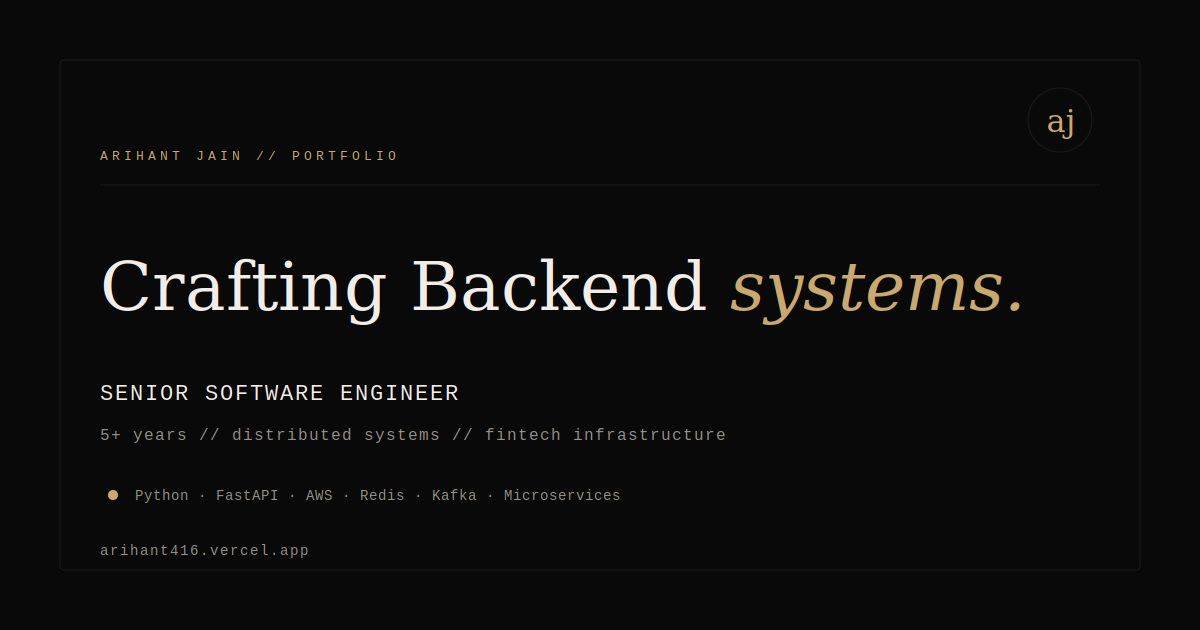
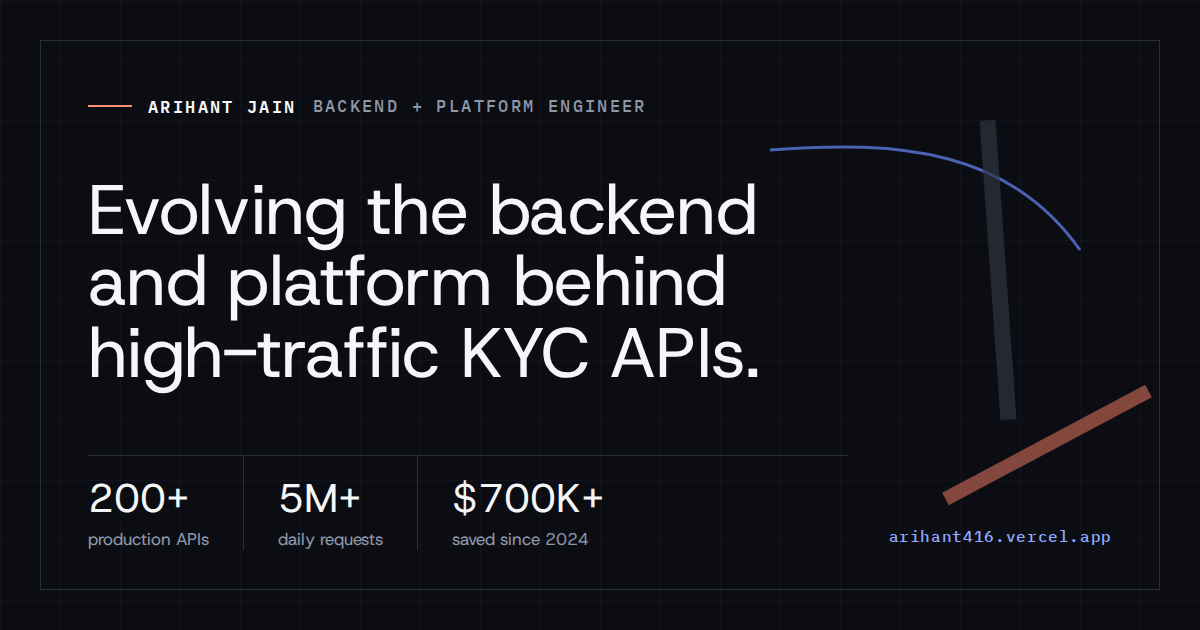
Phase 2: performance, accessibility, and link previews
- SpatialScene: build the WebGL scene once and recolour it in place on
  theme toggle (no new context per toggle); pause the render loop when
  the hero is off-screen or the tab is hidden
- Apply the saved/system theme before first paint (no dark flash for
  light-mode visitors); theme-color and color-scheme meta per scheme;
  localStorage access guarded
- Light-theme primary button: white text on cobalt (was 3.05:1), and
  readable hover state in light mode
- /beyond-work gets its own static index.html at build time with page
  title, description, canonical and OG image, so link unfurls and
  crawlers see the right page; Vercel rewrite points at it
- New OG / Twitter cards in the current visual identity (home and
  Beyond Work)
- Footer: social row no longer wraps between 1024 and 1280px
- Remove dead src/theme.js

Claude-Session: https://claude.ai/code/session_01WbQ3GogkfSynszMxnCNcDv

diff --git a/src/components/SpatialScene.jsx b/src/components/SpatialScene.jsx
@@ -2,13 +2,41 @@ import { useEffect, useRef, useState } from 'react';
 import * as THREE from 'three';
 import { useTheme } from '../context/ThemeContext';
 
+const PALETTE = {
+  dark: {
+    background: 0x0b0d12,
+    graphite: 0x2d3442,
+    cobalt: 0x607fe8,
+    coral: 0xe97862,
+    lineOpacity: 0.34,
+    blueOpacity: 0.7,
+    coralOpacity: 0.64,
+    gridOpacity: 0.08,
+  },
+  light: {
+    background: 0xf2f4f7,
+    graphite: 0xaeb8c8,
+    cobalt: 0x3156c8,
+    coral: 0xc6533d,
+    lineOpacity: 0.42,
+    blueOpacity: 0.5,
+    coralOpacity: 0.45,
+    gridOpacity: 0.1,
+  },
+};
+
 export default function SpatialScene({ reduceMotion = false }) {
   const containerRef = useRef(null);
   const canvasRef = useRef(null);
+  const sceneRef = useRef(null);
   const [ready, setReady] = useState(false);
   const [failed, setFailed] = useState(false);
   const { isDark } = useTheme();
+  const isDarkRef = useRef(isDark);
+  isDarkRef.current = isDark;
 
+  // Build the scene once per mount (and when motion preference changes).
+  // Theme changes are applied in place by the effect below, without a new WebGL context.
   useEffect(() => {
     const container = containerRef.current;
     const canvas = canvasRef.current;
@@ -33,42 +61,20 @@ export default function SpatialScene({ reduceMotion = false }) {
     const scene = new THREE.Scene();
     const camera = new THREE.PerspectiveCamera(32, 1, 0.1, 40);
     camera.position.set(0, 0, 10);
+    scene.fog = new THREE.Fog(0x000000, 10, 19);
 
     const stage = new THREE.Group();
     scene.add(stage);
 
-    const background = isDark ? 0x0b0d12 : 0xf2f4f7;
-    const graphite = isDark ? 0x2d3442 : 0xaeb8c8;
-    const cobalt = isDark ? 0x607fe8 : 0x3156c8;
-    const coral = isDark ? 0xe97862 : 0xc6533d;
-    scene.fog = new THREE.Fog(background, 10, 19);
-
     const geometries = [];
-    const materials = [];
     const rememberGeometry = (geometry) => {
       geometries.push(geometry);
       return geometry;
     };
-    const rememberMaterial = (material) => {
-      materials.push(material);
-      return material;
-    };
 
-    const lineMaterial = rememberMaterial(new THREE.LineBasicMaterial({
-      color: graphite,
-      transparent: true,
-      opacity: isDark ? 0.34 : 0.42,
-    }));
-    const blueMaterial = rememberMaterial(new THREE.MeshBasicMaterial({
-      color: cobalt,
-      transparent: true,
-      opacity: isDark ? 0.7 : 0.5,
-    }));
-    const coralMaterial = rememberMaterial(new THREE.MeshBasicMaterial({
-      color: coral,
-      transparent: true,
-      opacity: isDark ? 0.64 : 0.45,
-    }));
+    const lineMaterial = new THREE.LineBasicMaterial({ transparent: true });
+    const blueMaterial = new THREE.MeshBasicMaterial({ transparent: true });
+    const coralMaterial = new THREE.MeshBasicMaterial({ transparent: true });
 
     const frameGeometry = rememberGeometry(new THREE.EdgesGeometry(new THREE.BoxGeometry(6.8, 4.8, 1.8)));
     const frame = new THREE.LineSegments(frameGeometry, lineMaterial);
@@ -104,12 +110,27 @@ export default function SpatialScene({ reduceMotion = false }) {
       return fin;
     });
 
-    const grid = new THREE.GridHelper(18, 18, graphite, graphite);
+    const grid = new THREE.GridHelper(18, 18);
     grid.rotation.x = Math.PI / 2;
     grid.position.z = -2.8;
     grid.material.transparent = true;
-    grid.material.opacity = isDark ? 0.08 : 0.1;
     stage.add(grid);
+
+    const render = () => renderer.render(scene, camera);
+
+    const applyTheme = (mode) => {
+      const colors = PALETTE[mode];
+      scene.fog.color.setHex(colors.background);
+      lineMaterial.color.setHex(colors.graphite);
+      lineMaterial.opacity = colors.lineOpacity;
+      blueMaterial.color.setHex(colors.cobalt);
+      blueMaterial.opacity = colors.blueOpacity;
+      coralMaterial.color.setHex(colors.coral);
+      coralMaterial.opacity = colors.coralOpacity;
+      grid.material.color.setHex(colors.graphite);
+      grid.material.opacity = colors.gridOpacity;
+      render();
+    };
 
     let pointerX = 0;
     let pointerY = 0;
@@ -121,6 +142,7 @@ export default function SpatialScene({ reduceMotion = false }) {
 
     const resize = () => {
       const { width, height } = container.getBoundingClientRect();
+      if (!width || !height) return;
       const mobile = width < 720;
       const tablet = width >= 720 && width < 1040;
 
@@ -139,45 +161,71 @@ export default function SpatialScene({ reduceMotion = false }) {
         stage.scale.setScalar(1);
         stage.position.set(1.65, -0.05, 0);
       }
-      renderer.render(scene, camera);
+      render();
     };
+
+    // Animation loop only runs while the hero is on screen and the tab is visible.
+    let animationFrame = null;
+    let onScreen = true;
+    const tick = (time) => {
+      const seconds = time * 0.001;
+      stage.rotation.y += ((pointerX * 0.025) - stage.rotation.y) * 0.035;
+      stage.rotation.x += ((pointerY * -0.012) - stage.rotation.x) * 0.035;
+      fins.forEach((fin, index) => {
+        fin.position.z = fin.userData.baseZ + Math.sin(seconds * 0.28 + index) * 0.035;
+      });
+      routes.forEach((route, index) => {
+        route.position.y = Math.sin(seconds * 0.38 + index) * 0.014;
+      });
+      render();
+      animationFrame = window.requestAnimationFrame(tick);
+    };
+    const start = () => {
+      if (reduceMotion || animationFrame !== null || !onScreen || document.hidden) return;
+      animationFrame = window.requestAnimationFrame(tick);
+    };
+    const stop = () => {
+      if (animationFrame !== null) window.cancelAnimationFrame(animationFrame);
+      animationFrame = null;
+    };
+
+    const visibilityObserver = new IntersectionObserver(([entry]) => {
+      onScreen = entry.isIntersecting;
+      if (onScreen) start();
+      else stop();
+    });
+    visibilityObserver.observe(container);
+
+    const handleVisibility = () => (document.hidden ? stop() : start());
+    document.addEventListener('visibilitychange', handleVisibility);
 
     const resizeObserver = new ResizeObserver(resize);
     resizeObserver.observe(container);
+
+    sceneRef.current = { applyTheme };
+    applyTheme(isDarkRef.current ? 'dark' : 'light');
     resize();
     setReady(true);
-
-    let animationFrame;
-    const render = (time) => {
-      const seconds = time * 0.001;
-      if (!reduceMotion) {
-        stage.rotation.y += ((pointerX * 0.025) - stage.rotation.y) * 0.035;
-        stage.rotation.x += ((pointerY * -0.012) - stage.rotation.x) * 0.035;
-        fins.forEach((fin, index) => {
-          fin.position.z = fin.userData.baseZ + Math.sin(seconds * 0.28 + index) * 0.035;
-        });
-        routes.forEach((route, index) => {
-          route.position.y = Math.sin(seconds * 0.38 + index) * 0.014;
-        });
-      }
-      renderer.render(scene, camera);
-      if (!reduceMotion) animationFrame = window.requestAnimationFrame(render);
-    };
-
-    if (reduceMotion) renderer.render(scene, camera);
-    else animationFrame = window.requestAnimationFrame(render);
+    start();
 
     return () => {
-      window.removeEventListener('pointermove', handlePointer);
+      sceneRef.current = null;
+      stop();
+      visibilityObserver.disconnect();
       resizeObserver.disconnect();
-      if (animationFrame) window.cancelAnimationFrame(animationFrame);
+      document.removeEventListener('visibilitychange', handleVisibility);
+      window.removeEventListener('pointermove', handlePointer);
       geometries.forEach((geometry) => geometry.dispose());
-      materials.forEach((material) => material.dispose());
+      [lineMaterial, blueMaterial, coralMaterial].forEach((material) => material.dispose());
       grid.geometry.dispose();
       grid.material.dispose();
       renderer.dispose();
     };
-  }, [isDark, reduceMotion]);
+  }, [reduceMotion]);
+
+  useEffect(() => {
+    sceneRef.current?.applyTheme(isDark ? 'dark' : 'light');
+  }, [isDark]);
 
   return (
     <div ref={containerRef} className={`spatial-scene ${ready ? 'is-ready' : ''} ${failed ? 'has-failed' : ''}`}>

diff --git a/index.html b/index.html
@@ -4,44 +4,41 @@
 		<meta charset="utf-8" />
 		<link rel="icon" href="/favicon.ico" />
 		<meta name="viewport" content="width=device-width, initial-scale=1" />
-		<meta name="theme-color" content="#000000" />
-		<meta
-			name="description"
-			content="Senior Backend Engineer building the shared infrastructure behind 200+ production APIs: health-aware routing, distributed session coordination, and multi-region DR for 5M+ daily requests."
-		/>
+		<meta name="theme-color" content="#0b0d12" media="(prefers-color-scheme: dark)" />
+		<meta name="theme-color" content="#f2f4f7" media="(prefers-color-scheme: light)" />
+		<meta name="color-scheme" content="dark light" />
+		<!-- Apply the saved/system theme before first paint to avoid a flash -->
+		<script>
+			(function () {
+				var theme;
+				try { theme = localStorage.getItem('theme'); } catch (e) {}
+				if (theme !== 'dark' && theme !== 'light') {
+					theme = window.matchMedia('(prefers-color-scheme: dark)').matches ? 'dark' : 'light';
+				}
+				var root = document.documentElement;
+				root.setAttribute('data-theme', theme);
+				if (theme === 'dark') root.classList.add('dark');
+			})();
+		</script>
+		<meta name="description" content="Senior Backend Engineer building the shared infrastructure behind 200+ production APIs: health-aware routing, distributed session coordination, and multi-region DR for 5M+ daily requests." />
 		<!-- OpenGraph things -->
 		<meta property="og:title" content="Arihant Jain · Senior Backend Engineer" />
-		<meta
-			property="og:description"
-			content="Senior Backend Engineer building the shared infrastructure behind 200+ production APIs: health-aware routing, distributed session coordination, and multi-region DR for 5M+ daily requests."
-		/>
+		<meta property="og:description" content="Senior Backend Engineer building the shared infrastructure behind 200+ production APIs: health-aware routing, distributed session coordination, and multi-region DR for 5M+ daily requests." />
 		<meta property="og:url" content="https://arihant416.vercel.app/" />
 		<meta property="og:site_name" content="Arihant Jain Portfolio" />
 		<meta property="og:image" content="https://arihant416.vercel.app/og-image.png" />
 		<meta property="og:image:width" content="1200" />
 		<meta property="og:image:height" content="630" />
-		<meta
-			property="og:image:alt"
-			content="Arihant Jain portfolio preview for Senior Backend Engineer work"
-		/>
+		<meta property="og:image:alt" content="Arihant Jain, Backend + Platform Engineer: evolving the backend and platform behind high-traffic KYC APIs" />
 		<meta property="og:type" content="website" />
 		<meta property="og:locale" content="en_US" />
 
 		<!-- Twitter Cards -->
 		<meta name="twitter:card" content="summary_large_image" />
 		<meta name="twitter:title" content="Arihant Jain · Senior Backend Engineer" />
-		<meta
-			name="twitter:description"
-			content="Senior Backend Engineer building the shared infrastructure behind 200+ production APIs: health-aware routing, distributed session coordination, and multi-region DR for 5M+ daily requests."
-		/>
-		<meta
-			name="twitter:image"
-			content="https://arihant416.vercel.app/twitter-card.png"
-		/>
-		<meta
-			name="twitter:image:alt"
-			content="Arihant Jain portfolio preview for Senior Backend Engineer work"
-		/>
+		<meta name="twitter:description" content="Senior Backend Engineer building the shared infrastructure behind 200+ production APIs: health-aware routing, distributed session coordination, and multi-region DR for 5M+ daily requests." />
+		<meta name="twitter:image" content="https://arihant416.vercel.app/og-image.png" />
+		<meta name="twitter:image:alt" content="Arihant Jain, Backend + Platform Engineer: evolving the backend and platform behind high-traffic KYC APIs" />
 		<meta name="twitter:url" content="https://arihant416.vercel.app/" />
 		<meta name="twitter:site" content="@Arihant2302" />
 		<meta name="twitter:creator" content="@Arihant2302" />

diff --git a/src/index.css b/src/index.css
@@ -21,6 +21,7 @@
   --panel-shadow: 0 24px 80px rgba(0, 0, 0, 0.32);
   --nav-shadow: 0 16px 46px rgba(0, 0, 0, 0.20);
   --accent-glow: 0 0 42px rgba(145, 169, 255, 0.14);
+  --on-accent: #0b0d12;
   --tone-cobalt: #91a9ff;
   --tone-coral: #ff8e72;
   --tone-teal: #5fd0bd;
@@ -59,6 +60,7 @@
   --panel-shadow: 0 18px 48px rgba(35, 47, 73, 0.10);
   --nav-shadow: 0 16px 42px rgba(35, 47, 73, 0.10);
   --accent-glow: 0 0 36px rgba(49, 86, 200, 0.12);
+  --on-accent: #ffffff;
   --tone-cobalt: #3156c8;
   --tone-coral: #ad4430;
   --tone-teal: #107060;
@@ -1134,7 +1136,7 @@ main {
 
 @media (min-width: 1024px) {
   .site-footer-main {
-    grid-template-columns: minmax(24rem, 1.25fr) auto minmax(14rem, 0.65fr);
+    grid-template-columns: minmax(0, 1fr) auto auto;
     gap: clamp(2rem, 5vw, 5rem);
   }
 
@@ -1630,12 +1632,13 @@ main {
 .spatial-action-primary {
   border-color: var(--accent);
   background: var(--accent);
-  color: #0b0d12;
+  color: var(--on-accent);
 }
 
 .spatial-action-primary:hover {
   border-color: var(--text);
   background: var(--text);
+  color: var(--bg);
   box-shadow: 0 0.8rem 1.8rem color-mix(in srgb, var(--accent) 16%, transparent);
   transform: translateY(-2px);
 }

diff --git a/src/context/ThemeContext.jsx b/src/context/ThemeContext.jsx
@@ -4,7 +4,8 @@ const ThemeContext = createContext(null);
 
 const getInitial = () => {
   if (typeof window === 'undefined') return 'dark';
-  const stored = localStorage.getItem('theme');
+  let stored = null;
+  try { stored = localStorage.getItem('theme'); } catch { /* storage blocked */ }
   if (stored === 'dark' || stored === 'light') return stored;
   return window.matchMedia('(prefers-color-scheme: dark)').matches ? 'dark' : 'light';
 };
@@ -21,7 +22,7 @@ export function ThemeProvider({ children }) {
       root.classList.remove('dark');
       root.setAttribute('data-theme', 'light');
     }
-    localStorage.setItem('theme', theme);
+    try { localStorage.setItem('theme', theme); } catch { /* storage blocked */ }
   }, [theme]);
 
   const toggleTheme = () => setTheme(t => t === 'dark' ? 'light' : 'dark');

diff --git a/src/App.jsx b/src/App.jsx
@@ -10,7 +10,7 @@ import Footer from './components/Footer';
 
 const BeyondWork = lazy(() => import('./components/BeyondWork'));
 
-const getPathname = () => window.location.pathname.replace(/\/$/, '') || '/';
+const getPathname = () => window.location.pathname.replace(/\/(index\.html)?$/, '') || '/';
 
 export default function App() {
   const [pathname, setPathname] = useState(getPathname);

diff --git a/docs/portfolio-roadmap.md b/docs/portfolio-roadmap.md
@@ -42,5 +42,4 @@ Senior Backend Engineer · Distributed Systems & Platform Infrastructure · Pyth
 
 ## Pending
 
-- Phase 2: light-theme button contrast, pause SpatialScene off-screen, no WebGL rebuild on theme toggle, pre-paint theme script, static /beyond-work metadata, new OG/Twitter cards
 - Phase 3: Systems case studies with diagrams, quota-meter flagship expansion, Earlier projects list
